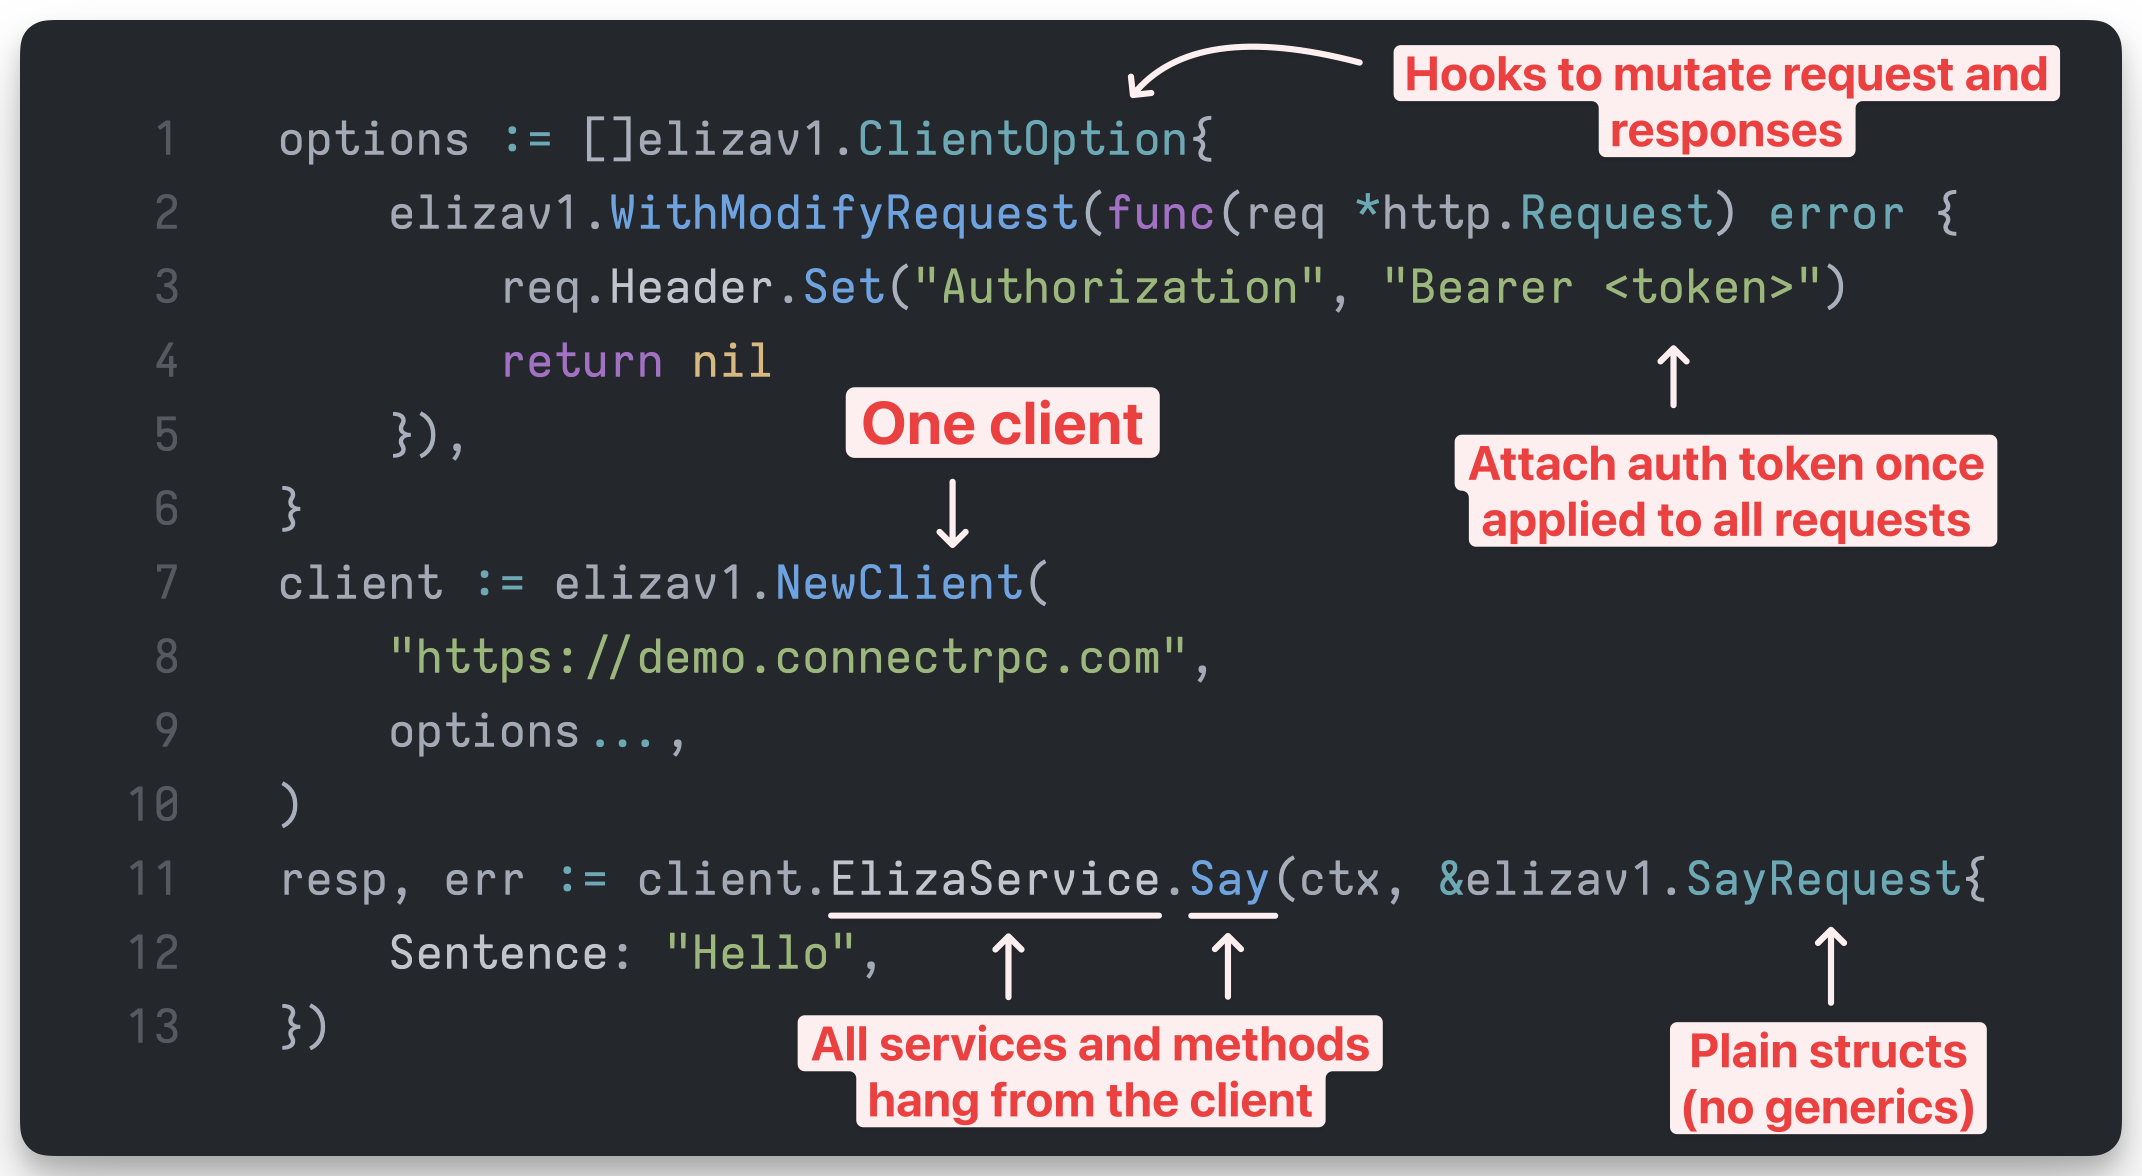
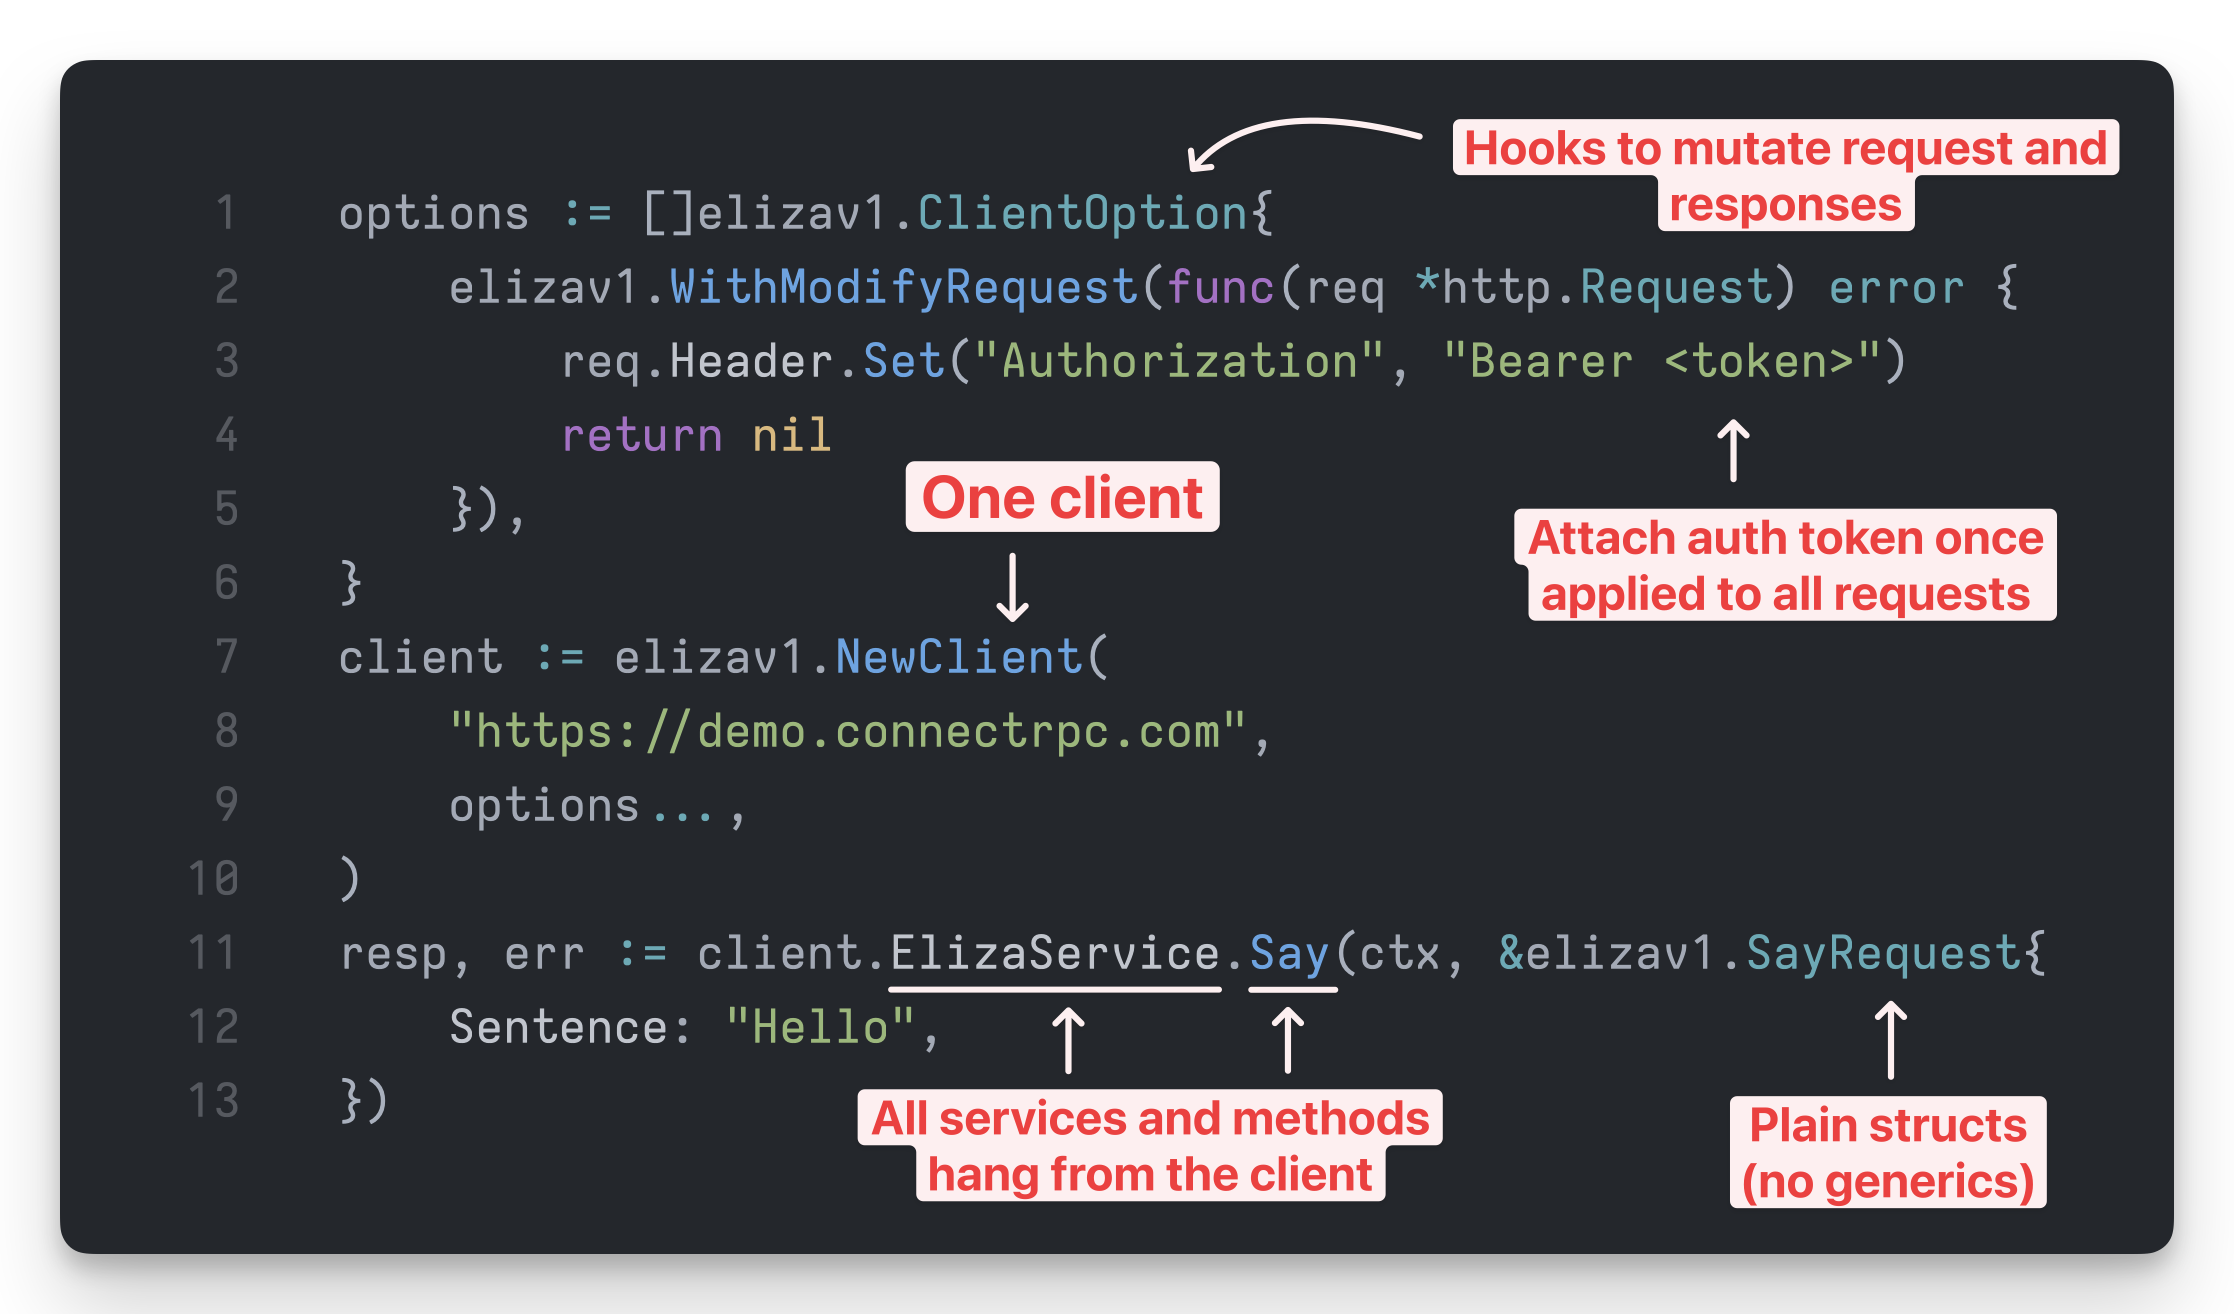
Improve README.md image

diff --git a/README.md b/README.md
@@ -4,7 +4,7 @@ A Protobuf plugin that generates a **single Connect Go client** for all services
 🔋. For more information, see the [But why?](#but-why) section.
 
 <p align="center">
-  <img src="examples/example_2.png" width=600px>
+  <img src="examples/example_2.png" width=800px>
 </p>
 
 [Connect](https://connectrpc.com/) is a simple, yet robust, RPC framework that allows you to define
